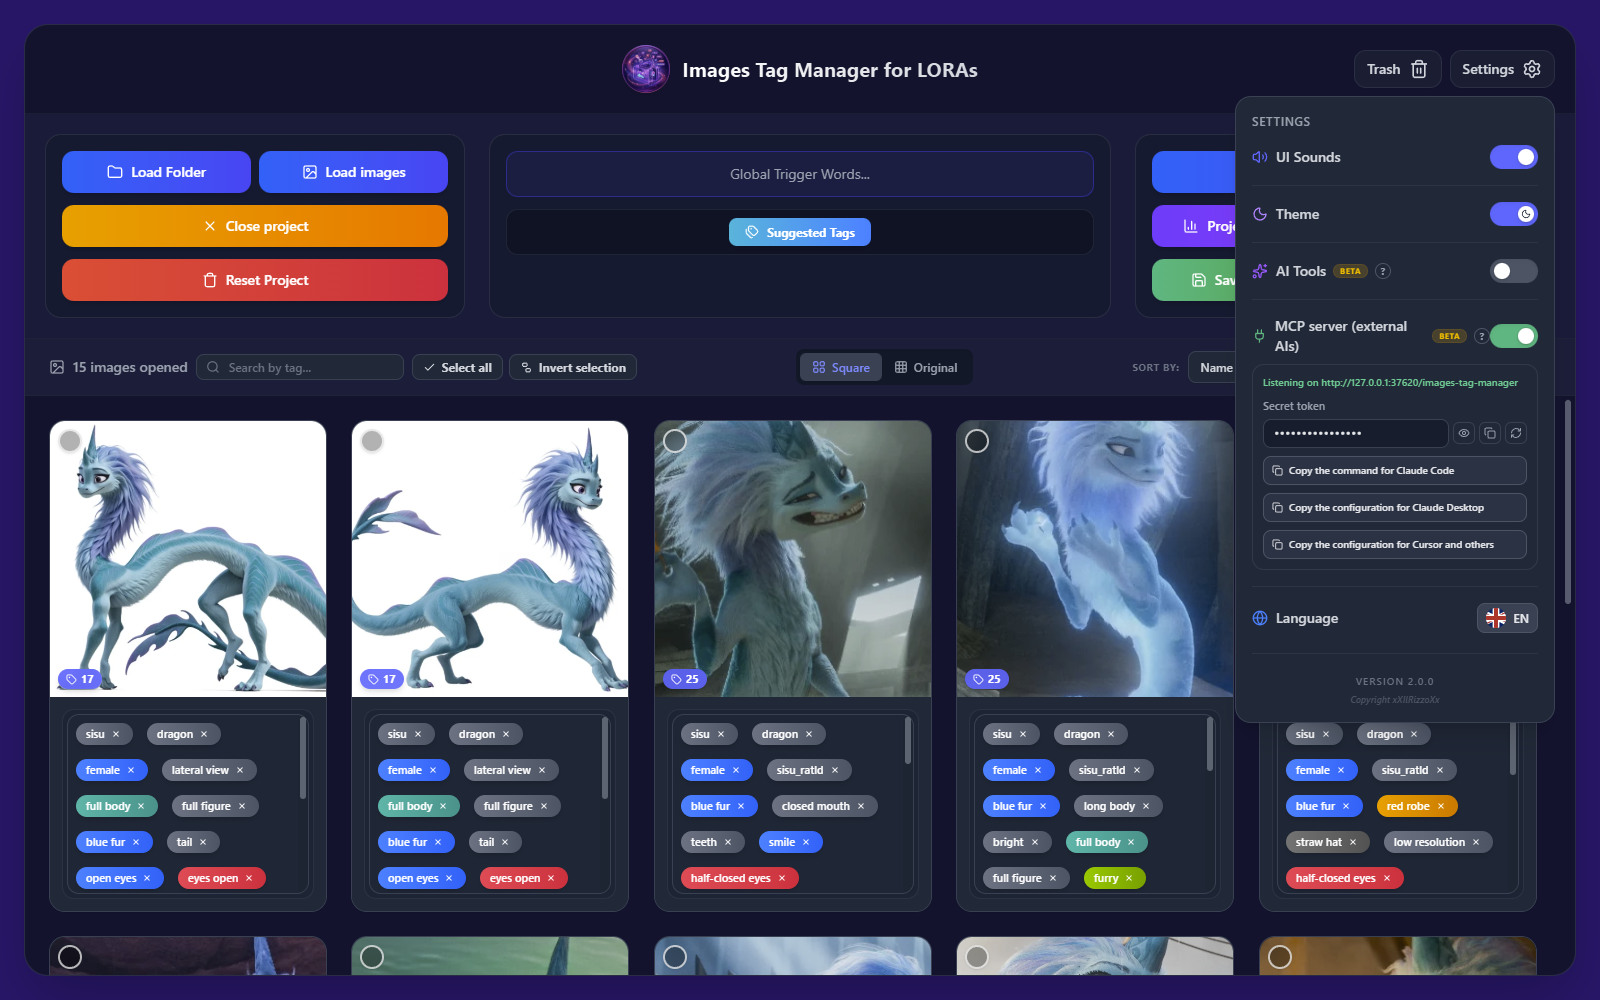
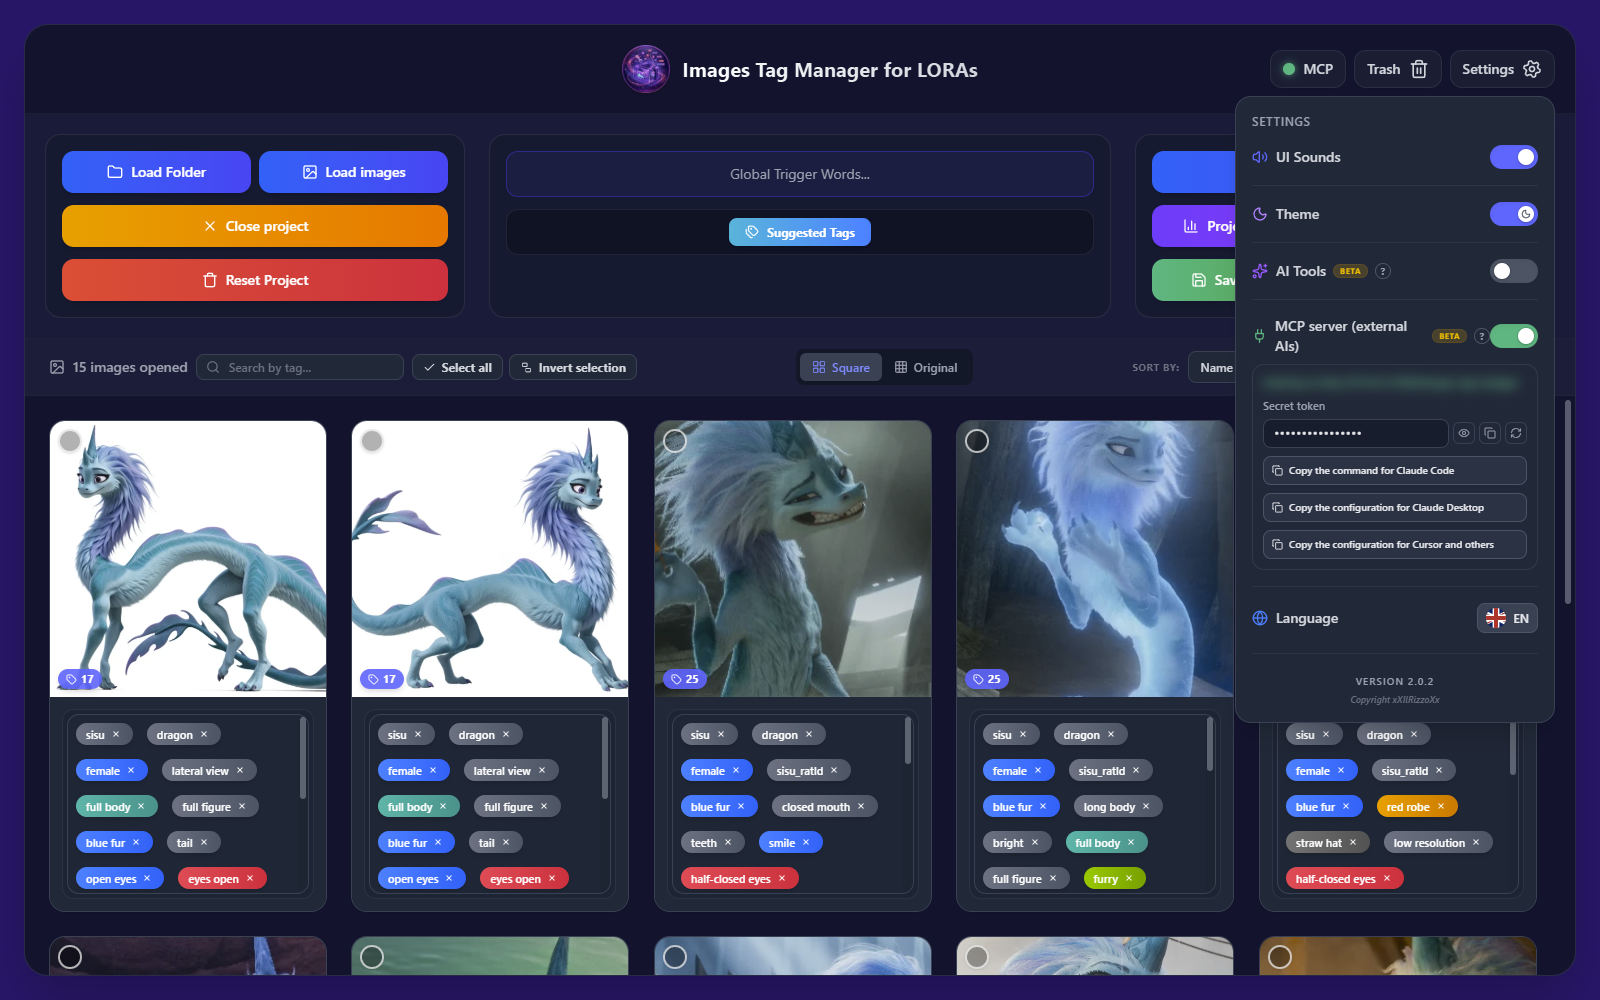
docs: MCP light card and the MCP cards redone on 2.0.2
New README card 19-mcp-light: yellow MCP light, the connection popup open and
the "changed by an external AI" notice, from a real run of the app's MCP code
driven in memory by the demo bridge. Shots 07, 16, 17 and 18 retaken on 2.0.2
(they still showed 2.0.0 and no light). The screenshot script now blurs the
MCP server address in every shot. make-feature-cards.mjs takes --only; four
cards swapped side to keep the left/right alternation. The README test that
looked for the old download sentence follows the new wording.

diff --git a/README.md b/README.md
@@ -54,6 +54,8 @@ It runs entirely on your machine and sends **no telemetry**. AI tagging is **opt
 
 <img src="docs/img/features/17-mcp.jpg" alt="MCP server: Claude Code, Claude Desktop, Cursor or any MCP client can see the open photos and change their tags, without ever saving" width="100%" />
 
+<img src="docs/img/features/19-mcp-light.jpg" alt="MCP light: next to Trash, green while the server listens, yellow while an external AI works, red if it did not start; a click shows the connection details, and a chime tells you when the AI has finished changing tags" width="100%" />
+
 <img src="docs/img/features/18-help.jpg" alt="Help where you need it: a question-mark button next to every Settings section opens its explanation" width="100%" />
 
 <img src="docs/img/features/13-trash.jpg" alt="Trash: removed photos are recoverable and files go to the Windows Recycle Bin" width="100%" />
